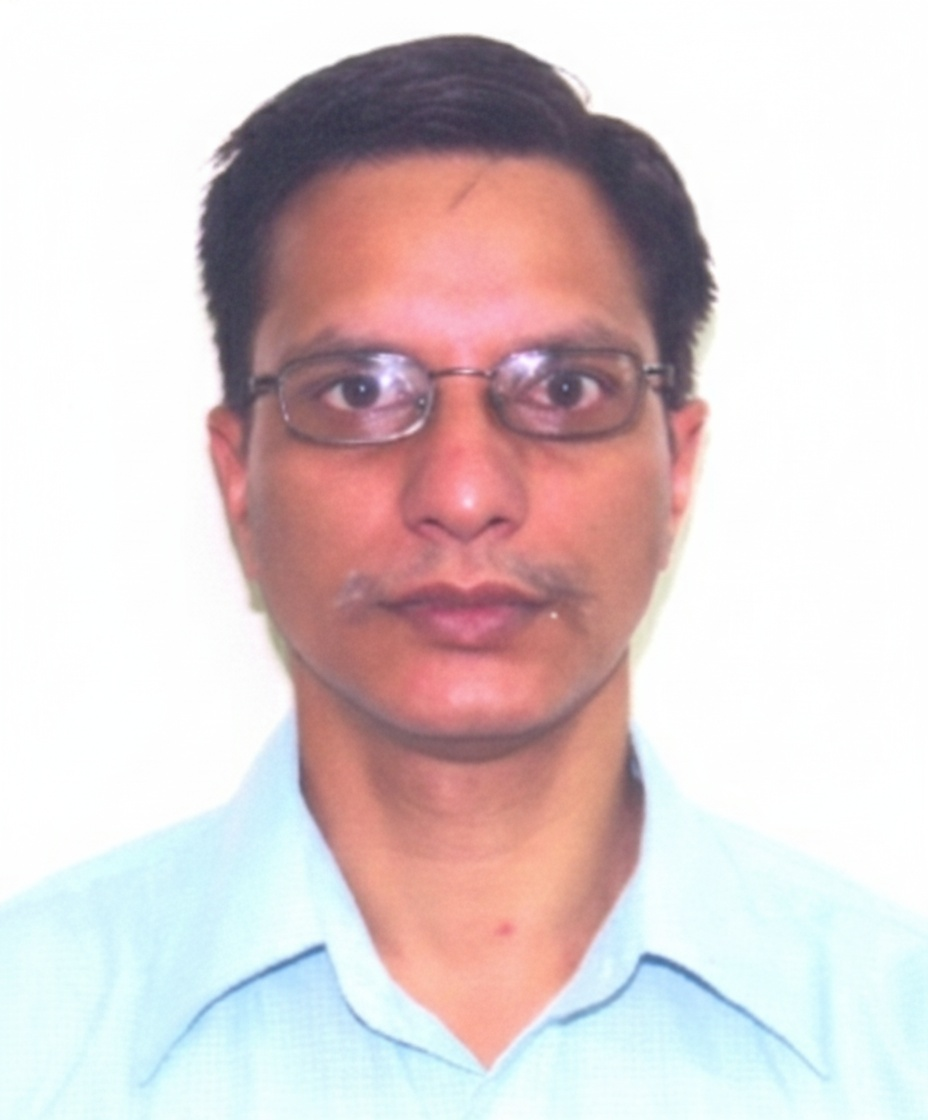
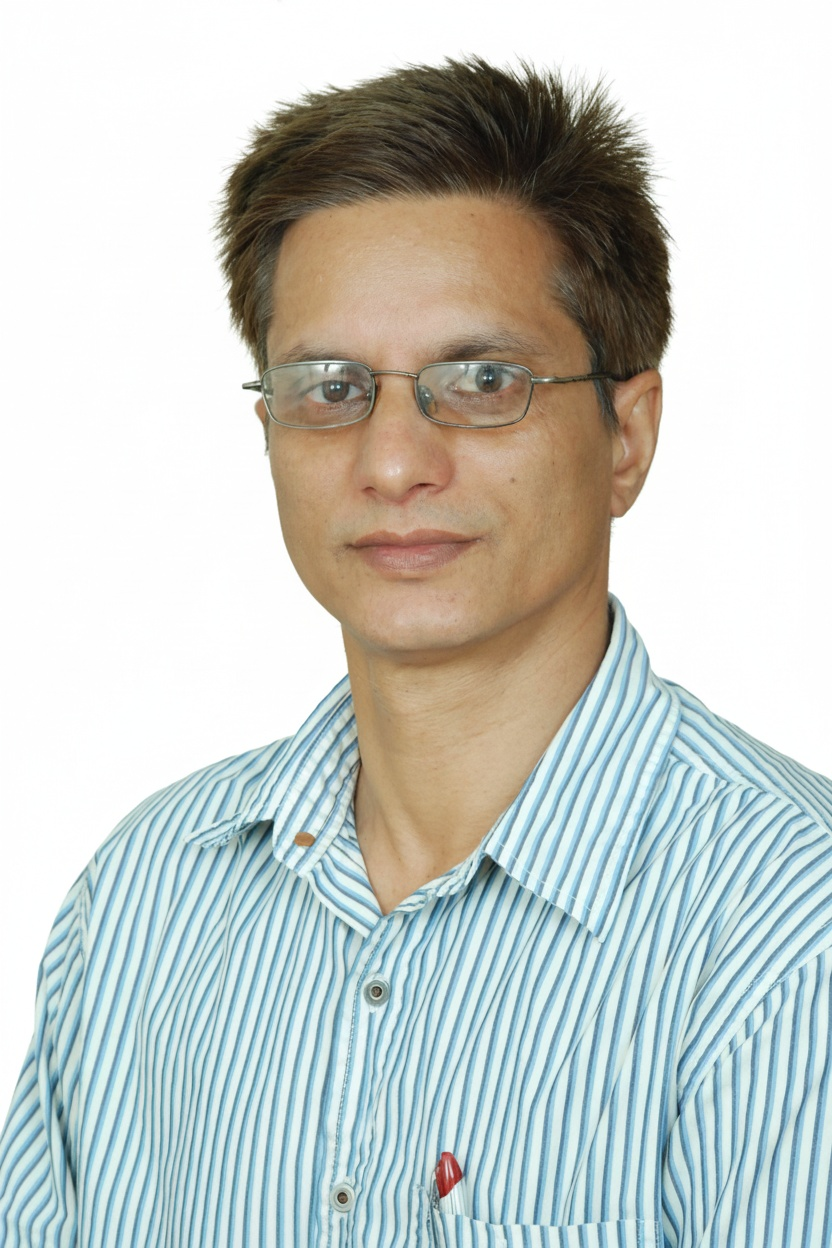
updated

diff --git a/src/components/ui/landing.tsx b/src/components/ui/landing.tsx
@@ -372,10 +372,7 @@ const EnergySteel = () => {
           <div className="absolute inset-0 bg-gradient-to-r from-[#0a0f1a] via-[#0a0f1a]/80 to-[#0a0f1a]/60" />
         </div>
         <div className="relative z-10 container mx-auto px-4 sm:px-6 text-center">
-          <div className="flex items-center justify-center space-x-2 mb-6">
-            <div className="w-1.5 h-1.5 bg-blue-500 rounded-full" />
-            <span className="text-blue-400 text-xs font-semibold uppercase tracking-[0.2em]">What We Deliver</span>
-          </div>
+          <span className="text-blue-400 text-xs font-semibold uppercase tracking-[0.2em] mb-4 block">What We Deliver</span>
           <h2 className="text-3xl sm:text-4xl md:text-5xl font-bold text-white leading-tight mb-6 max-w-2xl mx-auto">
             Industrial energy,<br />
             engineered to last
@@ -420,10 +417,7 @@ const EnergySteel = () => {
         <div className="container mx-auto px-4 sm:px-6">
           <div className="grid grid-cols-1 lg:grid-cols-2 gap-12 lg:gap-20 items-center">
             <div>
-              <div className="flex items-center space-x-2 mb-6">
-                <div className="w-1.5 h-1.5 bg-blue-500 rounded-full" />
-                <span className="text-blue-600 text-xs font-semibold uppercase tracking-[0.2em]">About TIFAC Core</span>
-              </div>
+              <span className="text-blue-600 text-xs font-semibold uppercase tracking-[0.2em] mb-4 block">About TIFAC Core</span>
               <h2 className="text-3xl sm:text-4xl font-bold text-[#0a0f1a] mb-6 leading-tight">
                 Pioneering transformer
                 diagnostics since 2000
@@ -464,10 +458,7 @@ const EnergySteel = () => {
       <section id="team" className="py-16 sm:py-24 bg-[#0a0f1a] text-white">
         <div className="container mx-auto px-4 sm:px-6">
           <div className="mb-10 sm:mb-14 text-center">
-            <div className="flex items-center justify-center space-x-2 mb-6">
-              <div className="w-1.5 h-1.5 bg-blue-500 rounded-full" />
-              <span className="text-blue-400 text-xs font-semibold uppercase tracking-[0.2em]">Our Team</span>
-            </div>
+            <span className="text-blue-400 text-xs font-semibold uppercase tracking-[0.2em] mb-4 block">Our Team</span>
             <h2 className="text-3xl sm:text-4xl md:text-5xl font-bold leading-tight">
               Our diagnostics experts
             </h2>
@@ -475,11 +466,7 @@ const EnergySteel = () => {
 
           {facultyCategories.map((category, catIndex) => (
             <div key={catIndex} className="mb-12 sm:mb-16">
-              <div className="flex items-center space-x-3 mb-6 sm:mb-8 pb-3 sm:pb-4 border-b border-white/10">
-                <div className="w-2 h-2 bg-blue-500 rounded-full" />
-                <h3 className="text-base sm:text-lg font-semibold text-white/80">{category.title}</h3>
-                <div className="flex-1" />
-              </div>
+              <h3 className="text-lg sm:text-xl font-bold text-white mb-6 sm:mb-8">{category.title}</h3>
               <div className="grid grid-cols-2 sm:grid-cols-3 lg:grid-cols-4 gap-4 sm:gap-x-6 sm:gap-y-10">
                 {category.members.map((member, index) => (
                   <div key={index} className="group text-center">
@@ -506,10 +493,7 @@ const EnergySteel = () => {
         <div className="absolute bottom-0 right-0 w-64 sm:w-96 h-64 sm:h-96 bg-blue-50 rounded-full translate-x-1/3 translate-y-1/3" />
         <div className="relative z-10 container mx-auto px-4 sm:px-6">
           <div className="text-center mb-10 sm:mb-14">
-            <div className="flex items-center justify-center space-x-2 mb-6">
-              <div className="w-1.5 h-1.5 bg-blue-500 rounded-full" />
-              <span className="text-blue-600 text-xs font-semibold uppercase tracking-[0.2em]">Get in Touch</span>
-            </div>
+            <span className="text-blue-600 text-xs font-semibold uppercase tracking-[0.2em] mb-4 block">Get in Touch</span>
             <h2 className="text-3xl sm:text-4xl md:text-5xl font-bold text-[#0a0f1a] leading-tight mb-5">
               Ready to optimize your
               transformer performance?
